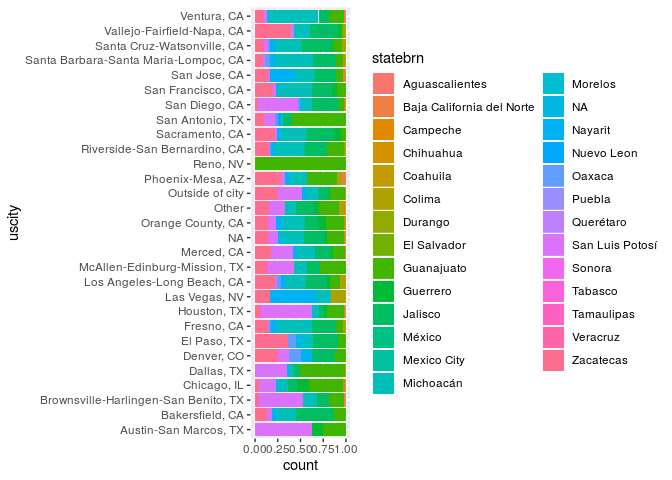
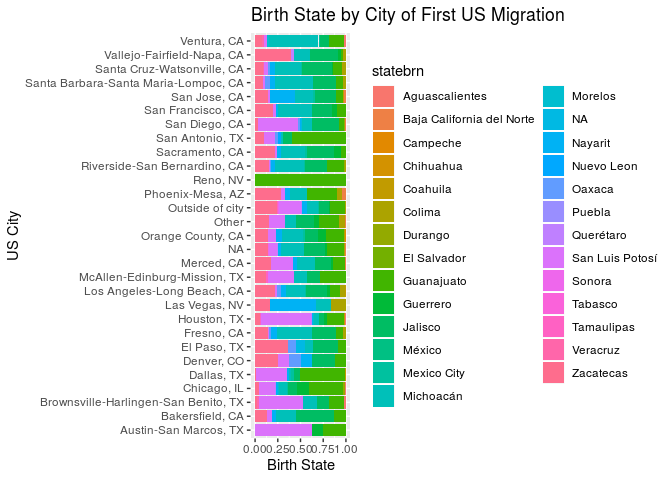
added more explanations and graph titles

Changed region(s): [[0.0312, 0.0, 0.9688, 0.9062], [0.4062, 0.9375, 0.5, 1.0], [0.0, 0.4375, 0.0312, 0.5312]]

diff --git a/01-proposal/proposal.md b/01-proposal/proposal.md
@@ -672,7 +672,8 @@ that very few migrants in the dataset were born in those states.
 ``` r
 ggplot(data = data, aes(x = uscity, fill = statebrn)) +
   geom_bar(position = "fill") +
-  coord_flip()
+  coord_flip() +
+  labs(title = "Birth State by City of First US Migration", x = "US City", y = "Birth State")
 ```
 
 ![](proposal_files/figure-gfm/uscity-statebrn-plots-1.png)<!-- -->
@@ -680,7 +681,8 @@ ggplot(data = data, aes(x = uscity, fill = statebrn)) +
 ``` r
 ggplot(data = data, aes(x = uscity, fill = statebrn)) +
   geom_bar()+
-  coord_flip()
+  coord_flip()+
+  labs(title = "Birth State by City of First US Migration", x = "US City", y = "Birth State")
 ```
 
 ![](proposal_files/figure-gfm/uscity-statebrn-plots-2.png)<!-- -->
@@ -695,26 +697,53 @@ LA-Long Beach. This interaction might be worth further investigation.
 ``` r
 ggplot(data = data, aes(x = uscity, y = log(hhincome))) +
   geom_boxplot() +
-  coord_flip()
+  coord_flip() +
+  labs(title = "Log(Household Income) by City of First US Migration", x = "US City", y = "Log(Household Income (dollars)")
 ```
 
-![](proposal_files/figure-gfm/unnamed-chunk-2-1.png)<!-- -->
+![](proposal_files/figure-gfm/uscity-hhincome-plot-1.png)<!-- -->
+
+The city in which a migrant lives and works in the US could also have an
+effect on their income- most IQRs for these cities appear very similar,
+but Las Vegas’s median log(income) is significantly lower, although the
+spread is greater. It is also interesting that the IQRs appear so even
+city-to-city despite the difference in minimum wage laws and living
+expenses in various states.
 
 ``` r
 ggplot(data = data, aes(x = usstate1, y = log(hhincome))) +
   geom_boxplot() +
-  coord_flip()
+  coord_flip() +
+  labs(title = "Log(Household Income) by State of First US Migration", x = "State", y = "Log(Household Income) (dollars)")
 ```
 
-![](proposal_files/figure-gfm/unnamed-chunk-2-2.png)<!-- -->
+![](proposal_files/figure-gfm/usstate1-hhincome-plot-1.png)<!-- -->
+
+The log(household income) appears to differ much more significantly by
+state than by city. With income in Puerto Rico and Pennsylvania
+noticeably lower than the other states, depending on skew due to
+different sample sizes in each state, this may prove an important
+interaction. Grouping states into regions of the US to create more
+evenly sized groups will aid in future analysis.
 
 ``` r
 ggplot(data = data, aes(x = occtype, fill = usdoc1)) +
   geom_bar(position = "fill") +
-  coord_flip()
+  coord_flip() +
+  labs(title = "Occupation Type by Documentation on First Migration to US", x = "Occupation Type")
 ```
 
-![](proposal_files/figure-gfm/unnamed-chunk-2-3.png)<!-- -->
+![](proposal_files/figure-gfm/occtype-usdoc1-plot-1.png)<!-- -->
+
+Undocumented immigrants are the most represented in this dataset
+overall, but there do appear to be some differences in documentation
+status in between occupation type groups. For example, most migrants in
+manufacturing jobs in the dataset are undocumented, whereas a signficant
+proportion of educators, homemakers, administrators, and professionals
+are legal residents or temporary residents. The students in the dataset
+are all temporary residents. There are a much higher number of contract
+workers in the unemployed category than any other occupation category.
+This would also be an interesting interaction to investigate.
 
 ## Section 3. Regression Analysis Plan
 
@@ -725,7 +754,9 @@ predictors, this is the best model at our disposal for us to use.
 
 We will consider the potential interaction between principal occupation
 and number of years of school completed, since those are generally
-interconnected. We may also consider the interactions between
+interconnected. We may also consider the interaction between
+documentation type and occupation type, although the effect may be
+insignificant.
 
 We will select our model using AIC criteria, because since we’re dealing
 with people, we want to build a model that accounts for volatile human
